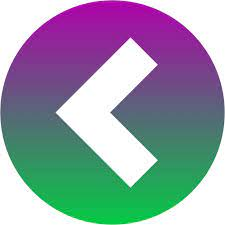
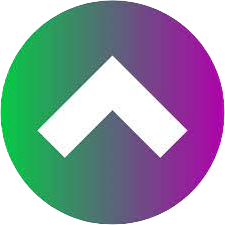
Realizando eje 10

diff --git a/Eje8/index.html b/Eje8/index.html
@@ -5,13 +5,16 @@
     <meta http-equiv="X-UA-Compatible" content="IE=edge">
     <meta name="viewport" content="width=device-width, initial-scale=1.0">
     <link rel="stylesheet" href="Estilo.css">
-    <title>Ejercicio 7</title>
+    <title>Document</title>
 </head>
 <body>
     <div class="test">
         <a href="../index.html" class="IniA"><img src="../regresar.jpg" alt="Inicio" class="IniImg"></a>
     </div>
-    <h1 class="titulounic">Titulo h1</h1>
-    <p class="parrafounic">Esto es un parrafo</p>
+    <ul>
+        <li>Auto</li>
+        <li>Moto</li>
+        <li>Camioneta</li>
+    </ul>
 </body>
 </html>

diff --git a/Eje7/Estilo.css b/Eje7/Estilo.css
@@ -1,0 +1,11 @@
+@import url(../EstiloIni.css);
+.titulounic{
+    color: red;
+    font-family: Arial;
+    font-size: 60px;
+}
+.parrafounic{
+    color: orangered;
+    text-align: justify;
+    line-height: 3;
+}

diff --git a/EstiloIni.css b/EstiloIni.css
@@ -5,7 +5,6 @@
 .IniImg{
     height: 40px;
     width: 40px;
-    transform: rotate(90deg);
 }
 h1.Ini{
     text-align: center;

diff --git a/Eje8/Estilo.css b/Eje8/Estilo.css
@@ -1,0 +1,4 @@
+@import url(../EstiloIni.css);
+ul{
+    list-style-image: url('sqpurple.gif');
+}
